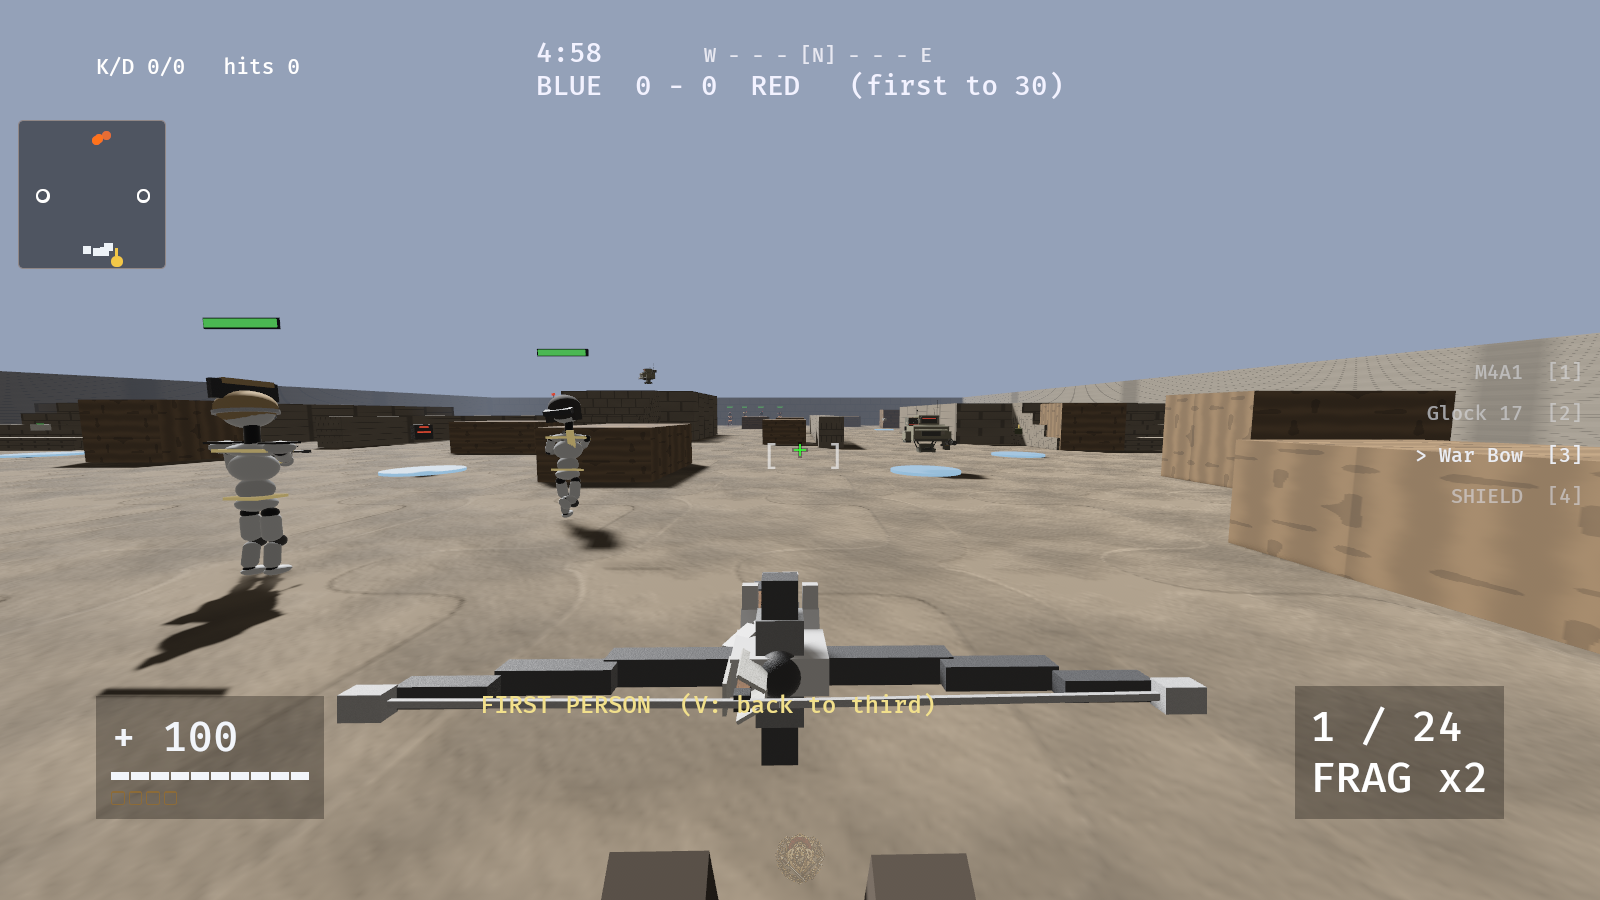
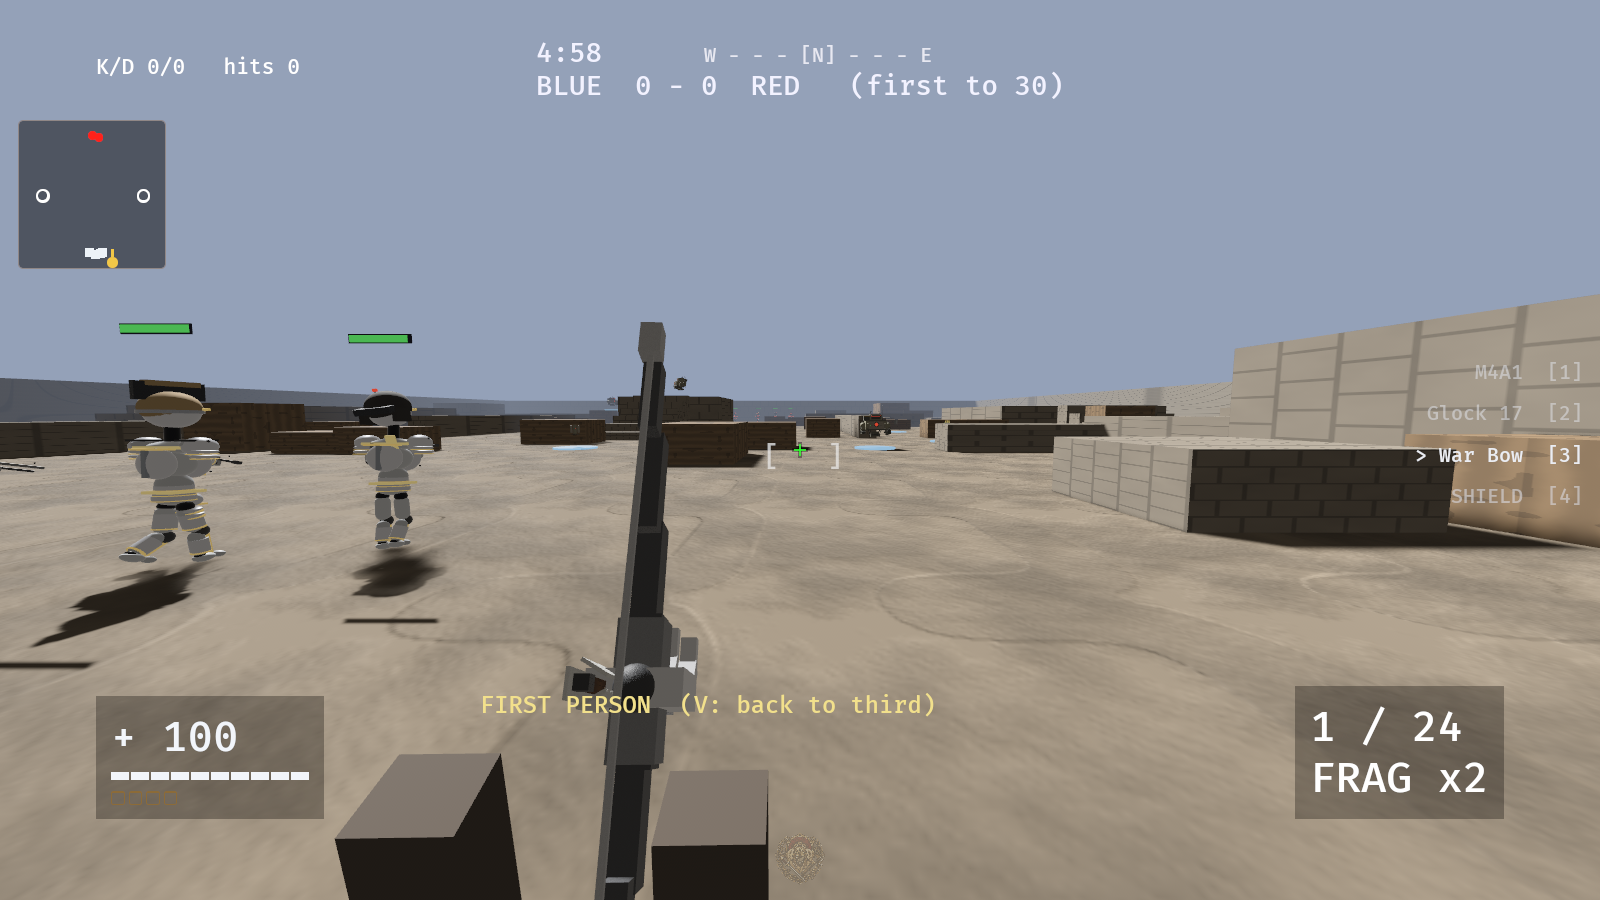
The bow stands up: §6, and two instruments that could not see a cant
The owner reported the bow "rotated 90 degrees sideways". It was not
random - an earlier pass laid it HORIZONTAL on purpose, limbs left and
right, to stop the upper limb crossing the sight line. That worked, and
produced a crossbow lying flat across the bottom of the screen.

Limbs run along Y again. The sight-line problem it was dodging is
answered the way archers answer it: by CANTING the bow (0.42 rad in
`vm_carry`, which already carried a per-weapon roll) rather than by
felling it.

Almost everything about this bow was already axis-neutral - the nock
sits on the centre line, the arrow rides beside the riser on X either
way - so the conversion is the limb table, the tip constant, and two
instruments that turned out to be welded to the old orientation:

- `bow_string_half` aimed itself with a single atan2 about +Y. It could
  not have described an upright string at all. It uses
  `from_rotation_arc` now and spans whatever direction its endpoints
  actually describe - upright, flat, or canted.
- the screen-intrusion sweep read `vm_carry`'s OFFSET and discarded its
  ROLL, judging every weapon as though held level. The SPEAR has
  carried a -0.12 roll the whole time and was being measured unrolled.
  The bow is only the case that made it matter, because a cant is
  exactly how you move a limb clear of the crosshair and the instrument
  was blind to one.

And the sweep's bow rule is RESTATED, not dropped: it asserted the whole
[…]

diff --git a/engine/crates/jk_tdm/src/main.rs b/engine/crates/jk_tdm/src/main.rs
@@ -253,8 +253,25 @@ fn bow_draw_visual(bow_draw_t: f32, fire_cd: f32, fire_period: f32, is_player: b
 // draw hand are all placed from it. They cannot drift apart because there
 // is nothing left to drift.
 
-/// Limb tip centre, ±X. The string leaves the tip here.
-const BOW_TIP_X: f32 = 0.392;
+/// Limb tip centre, ±Y. The string leaves the tip here.
+///
+/// §owner THE BOW STANDS UP AGAIN. An earlier pass laid it HORIZONTAL
+/// (limbs left and right) to stop the upper limb crossing the sight
+/// line, and solved that at the cost of the thing a bow most needs to
+/// be: a bow. In first person it read as a crossbow lying flat across
+/// the bottom of the screen - which is exactly the "rotated 90 degrees
+/// sideways" the owner reported.
+///
+/// Limbs run along Y now. The sight-line problem it was avoiding is
+/// answered the way archers answer it, by CANTING the bow rather than
+/// by felling it - see the roll in `vm_carry`.
+///
+/// Everything else about this bow was already axis-neutral: the nock
+/// sits on the centre line at (0, 0, z), the arrow rides beside the
+/// riser on X either way, and `bow_string_half` now aims itself with
+/// `from_rotation_arc`, so it spans whatever direction its endpoints
+/// actually describe.
+const BOW_TIP_Y: f32 = 0.392;
 /// Tip depth. The recurve steps backward, so the tips sit behind the riser.
 const BOW_TIP_Z: f32 = -0.088;
 /// The nock at REST - a hair behind the tips, which is what gives an
@@ -295,15 +312,19 @@ fn bow_nock_local(draw: f32) -> Vec3 {
 /// Both the length AND the angle come out of the same subtraction, so a
 /// half can never be pointing somewhere its own endpoints are not.
 fn bow_string_half(side: f32, draw: f32) -> Transform {
-    let tip = Vec3::new(side * BOW_TIP_X, 0.0, BOW_TIP_Z);
+    let tip = Vec3::new(0.0, side * BOW_TIP_Y, BOW_TIP_Z);
     let nock = bow_nock_local(draw);
     let d = nock - tip;
     let len = d.length().max(1e-4);
-    // The cube's long axis is +X. Rotating about +Y by θ maps +X to
-    // (cos θ, 0, −sin θ), so θ = atan2(−d.z, d.x) aims it down the span.
+    // The cube's long axis is +X. `from_rotation_arc` maps it onto
+    // whatever direction the endpoints describe, in any plane - which is
+    // what lets the same function serve a bow held upright, laid flat,
+    // or canted, without a second angle formula to keep in step. The
+    // previous version rotated about +Y only and was therefore silently
+    // welded to a horizontal bow.
     Transform {
         translation: (tip + nock) * 0.5,
-        rotation: Quat::from_rotation_y((-d.z).atan2(d.x)),
+        rotation: Quat::from_rotation_arc(Vec3::X, d / len),
         scale: Vec3::new(len, BOW_STRING_R, BOW_STRING_R),
     }
 }
@@ -2777,20 +2798,20 @@ fn carry_offset(
 /// off-eye.
 fn vm_carry(wk: GunKind) -> (Vec3, f32) {
     match wk {
-        // §owner: the bow went HORIZONTAL, so its bounding shape turned
-        // ninety degrees - it is now wide where it used to be tall. At
-        // the old 0.36 m carry a 0.7 m span filled the bottom third of
-        // the screen. Pushed out and centred, the way a bow is actually
-        // held, and it now leaves the sight line clear rather than
-        // putting a limb through it.
-        // §owner: and it carries LOW. The riser's grip swells top out
-        // 0.10 above the root - the tallest thing on any weapon relative
-        // to its own carry - so at -0.17 the bow's top edge sat inside
-        // the central 12%-of-screen-height circle as soon as any pose
-        // raised it. Nothing caught that while the intrusion sweep was
-        // checking a declared envelope at a generic carry instead of this
-        // weapon's real geometry at its own.
-        GunKind::Bow => (Vec3::new(-0.02, -0.22, -0.66), 0.0),
+        // §owner THE CANT. The bow stands upright again (see
+        // `BOW_TIP_Y`), which puts a 0.39 m upper limb back near the
+        // sight line - the exact problem that laying it flat was meant
+        // to solve, and the exact problem archers solve by CANTING the
+        // bow rather than by felling it.
+        //
+        // 0.42 rad (24 degrees) rolls the upper limb out of the centre
+        // while the bow still unmistakably reads as upright. Held left
+        // of centre (x -0.16) so the riser sits beside the crosshair
+        // rather than under it, and kept far forward (z -0.66) and low
+        // (y -0.24), because an upright bow is the tallest thing on any
+        // weapon relative to its own carry and the central
+        // 12%-of-screen-height circle has to stay clear at every pose.
+        GunKind::Bow => (Vec3::new(-0.16, -0.24, -0.66), 0.42),
         GunKind::Spear => (Vec3::new(0.15, -0.10, -0.28), -0.12),
         GunKind::Glock | GunKind::Deagle => (Vec3::new(0.10, -0.125, -0.30), 0.0),
         GunKind::M249 => (Vec3::new(0.13, -0.14, -0.42), 0.0),
@@ -7356,28 +7377,34 @@ fn weapon_parts(kind: GunKind) -> Vec<WPart> {
             parts.push(wp(false, Tone::Mid, (0.0, 0.112, -0.02), 0.0, (0.030, 0.016, 0.048)));
         }
         GunKind::Bow => {
-            // §owner: the war bow is held HORIZONTAL, and it CURVES.
+            // §owner: the war bow is held UPRIGHT, and it CURVES.
             //
-            // It used to be two straight blocks stacked vertically, which
-            // read as a pole rather than a bow and put the upper limb
-            // through the shooter's sight line. Limbs now run left and
-            // right, and each is built from three shortening segments
-            // that step backward in z - a real recurve profile rather
-            // than one tilted slab, which is what makes the shape read as
-            // SPRUNG rather than rigid.
+            // Limbs run UP and DOWN from the riser, each built from three
+            // shortening segments that step backward in z - a real
+            // recurve profile rather than one straight slab, which is
+            // what makes the shape read as SPRUNG rather than rigid.
+            //
+            // (It was laid horizontal for a while to keep the upper limb
+            // out of the sight line. That worked, and produced something
+            // that read as a crossbow lying flat. The sight line is kept
+            // clear by CANTING it in `vm_carry` instead - which is what
+            // an archer with the same problem does.)
             //
             // The riser stays at the origin so `weapon_hand_specs`' grip
             // socket (0, 0, 0.03) and the nock at the string's centre are
             // both untouched by the reorientation.
-            parts.push(wp(false, Tone::Mid, (0.0, 0.0, 0.012), 0.0, (0.052, 0.115, 0.058)));
-            // grip swell above and below the shelf, so the riser is not a
-            // plain brick
-            parts.push(wp(false, Tone::Dark, (0.0, 0.075, 0.012), 0.0, (0.040, 0.05, 0.050)));
-            parts.push(wp(false, Tone::Dark, (0.0, -0.075, 0.012), 0.0, (0.040, 0.05, 0.050)));
+            parts.push(wp(false, Tone::Mid, (0.0, 0.0, 0.012), 0.0, (0.052, 0.150, 0.058)));
+            // grip swell above and below the hand, so the riser is not a
+            // plain brick. Pulled in to +-0.055 (from +-0.075): upright,
+            // the first limb segment starts at 0.115, and swells at the
+            // old spacing merged into it as one continuous post.
+            parts.push(wp(false, Tone::Dark, (0.0, 0.055, 0.012), 0.0, (0.044, 0.05, 0.050)));
+            parts.push(wp(false, Tone::Dark, (0.0, -0.055, 0.012), 0.0, (0.044, 0.05, 0.050)));
             for side in [-1.0_f32, 1.0] {
                 // three segments per limb: each shorter, thinner, and
                 // further back than the last - the curve
-                for (dx, dz, w, h, d) in [
+                // `len` is along the limb (Y now); `thick` across it
+                for (dy, dz, len, thick, d) in [
                     (0.115, 0.000, 0.150, 0.030, 0.044),
                     (0.235, -0.030, 0.120, 0.026, 0.038),
                     (0.330, -0.072, 0.090, 0.022, 0.032),
@@ -7385,29 +7412,27 @@ fn weapon_parts(kind: GunKind) -> Vec<WPart> {
                     parts.push(wp(
                         false,
                         Tone::Dark,
-                        (side * dx, 0.0, 0.012 + dz),
+                        (0.0, side * dy, 0.012 + dz),
                         0.0,
-                        (w, h, d),
+                        (thick, len, d),
                     ));
                 }
                 // the light tip / string nock at the end of the recurve
                 parts.push(wp(
                     false,
                     Tone::Light,
-                    (side * BOW_TIP_X, 0.0, BOW_TIP_Z),
+                    (0.0, side * BOW_TIP_Y, BOW_TIP_Z),
                     0.0,
-                    (0.040, 0.026, 0.028),
+                    (0.026, 0.040, 0.028),
                 ));
             }
             // The string is NOT in this list - it is two live halves hung
             // below, because a drawn string is a V and this table can only
             // describe a fixed pose. See `bow_string_sync`.
             //
-            // The arrow rest moved with it. It used to be a shelf ON TOP of
-            // the riser at y +0.030, left over from the vertical bow where
-            // the arrow lay over the hand. Held horizontal there is no "on
-            // top" - the shaft passes BESIDE the riser, so the rest is a
-            // side bracket under the shaft's own line.
+            // The arrow rest. Upright there IS an "on top" again: the
+            // shaft passes beside the riser on X and rests on a shelf
+            // that stands proud of it, which is where a real one sits.
             parts.push(wd(
                 false,
                 Tone::Light,
@@ -21514,17 +21539,41 @@ mod band_tests {
                                         pose.z.abs() * VM_SWAY_CAP_DEG.to_radians().tan();
                                     let r = r_at(pose.z.abs());
                                     match prof {
-                                        // the bow is symmetric: no midline
-                                        // test, a VERTICAL one instead
+                                        // §owner The bow is held CENTRED and
+                                        // is symmetric about its own riser,
+                                        // so the MIDLINE question does not
+                                        // apply to it - a shape that reaches
+                                        // equally both ways cannot answer a
+                                        // test written for a gun carried on
+                                        // the right.
+                                        //
+                                        // What stood in for it was a vertical
+                                        // proxy: "the whole bow must sit
+                                        // BELOW the crosshair circle". That
+                                        // was free while the bow lay
+                                        // horizontal, and it forbids the very
+                                        // thing an upright bow IS. Restated
+                                        // rather than dropped, because the
+                                        // requirement was never "below the
+                                        // crosshair" - it was "not ON it".
+                                        // The bow answers the same per-corner
+                                        // circle test as every other weapon
+                                        // now, and a limb may pass above the
+                                        // circle so long as it stays out of
+                                        // it.
                                         ScreenProfile::BowDrawn => {
-                                            assert!(
-                                                pose.y + bu < -r,
-                                                "{kind:?}: the bow reaches the crosshair \
-                                                 - top {:.3} vs circle {:.3} \
-                                                 (sf {sf} th {th} pull {pull})",
-                                                pose.y + bu,
-                                                -r
-                                            );
+                                            for (pl, pu) in &corners {
+                                                let dx = pose.x - pl - sway;
+                                                let dy = pose.y + pu;
+                                                let d = (dx * dx + dy * dy).sqrt();
+                                                assert!(
+                                                    d > r,
+                                                    "{kind:?}: a bow corner sits ON the \
+                                                     crosshair - d {d:.3} <= r {r:.3} \
+                                                     (sf {sf} th {th} pull {pull} \
+                                                     cook {cook})"
+                                                );
+                                            }
                                         }
                                         _ => {
                                             // midline: the widest thing on
@@ -23096,7 +23145,7 @@ mod bow_string_tests {
                 // the rotation and the length disagree this fails
                 let half = t.rotation * Vec3::X * (t.scale.x * 0.5);
                 let (a, b) = (t.translation - half, t.translation + half);
-                let tip = Vec3::new(side * BOW_TIP_X, 0.0, BOW_TIP_Z);
+                let tip = Vec3::new(0.0, side * BOW_TIP_Y, BOW_TIP_Z);
                 // whichever end is nearer the tip must BE the tip, and the
                 // other must be the nock
                 let (near_tip, near_nock) =
@@ -23120,7 +23169,7 @@ mod bow_string_tests {
     fn the_string_lengthens_as_it_is_drawn() {
         let len = |d: f32| bow_string_half(1.0, d).scale.x;
         let rest = len(0.0);
-        assert!(rest > BOW_TIP_X, "a slack string still spans the limb");
+        assert!(rest > BOW_TIP_Y, "a slack string still spans the limb");
         let mut prev = rest;
         for d in [0.2_f32, 0.45, 0.7, 0.9, 1.0] {
             let l = len(d);
